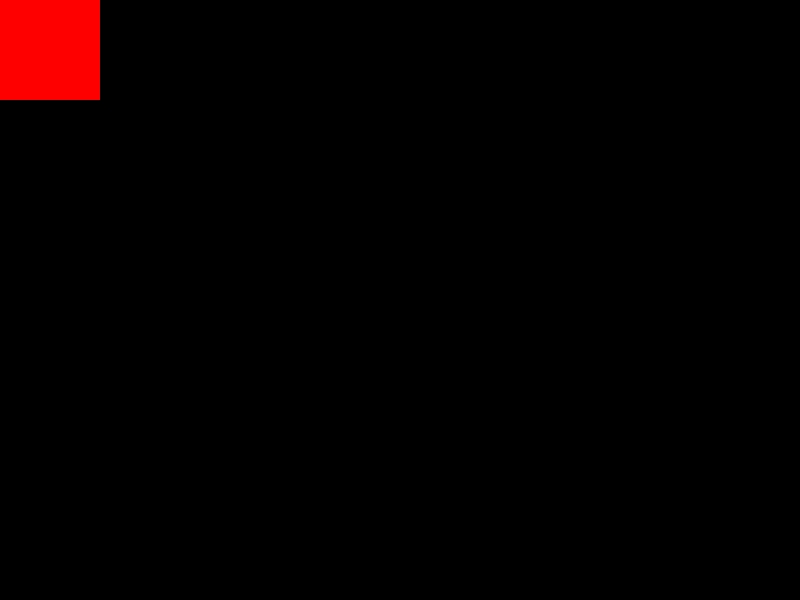
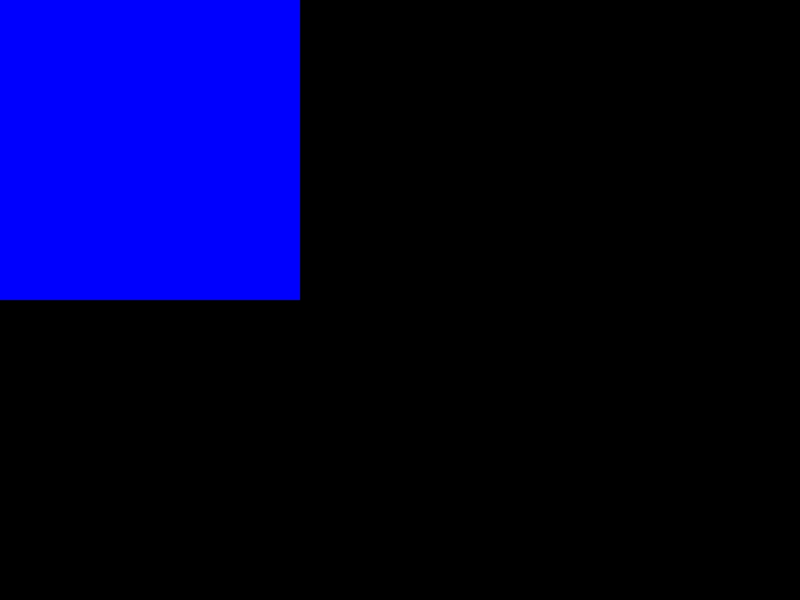
完成 toy-browser

Changed region(s): [[0.0, 0.0, 0.375, 0.51]]

diff --git a/Week10/layout.js b/Week10/layout.js
@@ -28,7 +28,8 @@ function layout(element) {
     items.sort((a, b) => {
         return (a.order || 0) - (b.order || 0)
     })
-    const style = elementStyle
+    const style = elementStyle;
+
     ['width', 'height'].forEach(size => {
         if (style[size] === 'auto' || style[size] === '') {
             style[size] = null
@@ -48,7 +49,7 @@ function layout(element) {
     }
 
     let mainSize, mainStart, mainEnd, mainSign, mainBase,
-        corossSize, corssStart, crossEnd, crossSign, crossBase
+        crossSize, corssStart, crossEnd, crossSign, crossBase
     if (style.flexDireaction === 'row') {
         mainSize = 'width'
         mainStart = 'left'
@@ -56,7 +57,7 @@ function layout(element) {
         mainSign = +1
         mainBase = 0
 
-        corossSize = 'height'
+        crossSize = 'height'
         corssStart = 'top'
         crossEnd = 'bottom'
     }
@@ -67,7 +68,7 @@ function layout(element) {
         mainSign = -1
         mainBase = style.width
 
-        corossSize = 'height'
+        crossSize = 'height'
         corssStart = 'top'
         crossEnd = 'bottom'
     }
@@ -78,7 +79,7 @@ function layout(element) {
         mainSign = +1
         mainBase = 0
 
-        corossSize = 'width'
+        crossSize = 'width'
         corssStart = 'left'
         crossEnd = 'right'
     }
@@ -89,7 +90,7 @@ function layout(element) {
         mainSign = -1
         mainBase = style.height
 
-        corossSize = 'width'
+        crossSize = 'width'
         corssStart = 'left'
         crossEnd = 'right'
     }
@@ -136,8 +137,8 @@ function layout(element) {
             flexLine.push(item)
         } else if (style.flexWrap === 'nowrap' && isAutoMainSize) {
             mainSpace -= itemStyle[mainSize]
-            if (itemStyle[corossSize] !== null && itemStyle[corossSize] !== (void 0)) {
-                crossSpace = mainSpace = Math.max(crossSpace, itemStyle[corossSize])
+            if (itemStyle[crossSize] !== null && itemStyle[crossSize] !== (void 0)) {
+                crossSpace = mainSpace = Math.max(crossSpace, itemStyle[crossSize])
                 flexLine.push(item)
             }
         } else {
@@ -185,11 +186,11 @@ function layout(element) {
         }
     } else {
         flexLines.forEach((items) => {
-            const mainSpace = item.mainSpace
+            const mainSpace = items.mainSpace
             let flexTotal = 0
             for (let i = 0; i < items.length; i++) {
                 const item = items[i]
-                const itemStyle = items[i]
+                const itemStyle = getStyle(item)
                 if ((itemStyle.flex !== null) && (itemStyle.flex !== (void 0))) {
                     flexTotal += itemStyle.flex
                     continue
@@ -233,6 +234,7 @@ function layout(element) {
                 }
                 for (let i = 0; i < items.length; i++) {
                     const item = items[i]
+                    const itemStyle = getStyle(item)
                     itemStyle[mainStart] = currentMain
                     itemStyle[mainEnd] = itemStyle[mainStart] + mainSign * itemStyle[mainSize]
                     currentMain = itemStyle[mainEnd] + step
@@ -322,7 +324,7 @@ function layout(element) {
         }
         crossBase += crossSign * (lineCrossSize + step)
     })
-    console.log(items)
+
 }
 
 module.exports = layout

diff --git a/Week10/client.js b/Week10/client.js
@@ -12,7 +12,13 @@ function render(viewport, element) {
             viewport.draw(img, element.style.left || 0, element.style.top || 0)
         }
     }
+    if (element.children) {
+        for (const child of element.children) {
+            render(viewport, child)
+        }
+    }
 }
+
 class TrunkedBodyPaser {
     constructor() {
         this.WAITING_LENGTH = 0
@@ -89,7 +95,7 @@ class ResponseParser {
         for (let i = 0; i < string.length; i++) {
             this.receivechar(string.charAt(i))
         }
-        //console.log(this.headers)
+
     }
     receivechar(char) {
         if (this.current === this.WAITING_STATUS_LINE) {
@@ -135,7 +141,7 @@ class ResponseParser {
                 this.current = this.WAITING_BODY
             }
         } else if (this.current === this.WAITING_BODY) {
-            //console.log(char)
+
             this.bodyParser.receivechar(char)
         }
     }
@@ -175,9 +181,8 @@ class Request {
                 })
             }
             connection.on('data', (data) => {
-                //console.log(data.toString())
+
                 parser.receive(data.toString())
-                console.log(parser.isFinished, data.toString())
                 if (parser.isFinished) {
                     resolve(parser.response)
                     connection.end()
@@ -198,7 +203,7 @@ ${this.bodyText}`
 }
 
 void async function () {
-    console.log('Request')
+
     let request = new Request({
         method: 'POST', // HTTP 协议要求
         host: '127.0.0.1',// TCP 协议的要求
@@ -213,12 +218,11 @@ void async function () {
     })
     let response = await request.send()
 
-    //console.log('response=>', response)
     let dom = parser.parserHTML(response.body)
 
     let viewport = images(800, 600)
-    console.log('dom', dom.children[1].children[3].children[1])
-    render(viewport, dom.children[1].children[3].children[1])
+
+    render(viewport, dom)
 
     viewport.save('viewport.jpg')
 

diff --git a/Week10/parser.js b/Week10/parser.js
@@ -309,6 +309,7 @@ function computeCSS(element) {
 
     for (let rule of rules) {
         const selectorParts = rule.selectors[0].split(' ').reverse();
+
         if (!match(element, selectorParts[0])) {
             continue
         }
@@ -339,6 +340,7 @@ function computeCSS(element) {
                     computedStyle[declaration.property].specificity = sp
                 }
             }
+
         }
     }
 
@@ -380,6 +382,15 @@ function match(element, selector) {
     if (selector.charAt(0) == '#') {
         var attr = element.attributes.filter(attr => attr.name === 'id')[0]
         if (attr && attr.value === selector.replace('#', '')) {
+            return true
+        } else {
+            if (element.tagName === selector) {
+                return true
+            }
+        }
+    } else if (selector.charAt(0) == '.') {
+        var attr = element.attributes.filter(attr => attr.name === 'class')[0]
+        if (attr && attr.value === selector.replace('.', '')) {
             return true
         } else {
             if (element.tagName === selector) {

diff --git a/Week08/server.js b/Week08/server.js
@@ -16,17 +16,36 @@ http.createServer((request, response) => {
 <html name=a123 >
 <head>
 <style>
-        #app {
-            width:100px;
-            height:100px;
-            background-color:rgb(255,0,0);
-        }
+      .a{
+        width:100px;
+        height:100px;
+        background-color:rgb(255,0,0);
+        display:flex
+      }  
+      .b{
+        width:200px;
+        height:200px;
+        background-color:rgb(0,255,0);
+        display:flex;
+      }
+      .c{
+        width:300px;
+        height:300px;
+        background-color:rgb(0,0,255);
+        display:flex;
+      }
 </style>
 </head>
 <body>
-    <div id="app">
-        hello world
-    </div>
+        <div class="a">
+            
+        </div>
+        <div class="b">
+
+        </div>
+        <div class="c">
+
+        </div>
 </body>
 </html>
         `)

diff --git a/Week10/README.md b/Week10/README.md
@@ -33,12 +33,14 @@ function layout(element) {
     items.sort((a, b) => {
         return (a.order || 0) - (b.order || 0)
     })
-    const style = elementStyle
+    const style = elementStyle;
+
     ['width', 'height'].forEach(size => {
         if (style[size] === 'auto' || style[size] === '') {
             style[size] = null
         }
     })
+
     if (!style.flexDireaction || style.flexDireaction === 'auto') {
         style.flexDireaction = 'row'
     }
@@ -127,12 +129,19 @@ module.exports = layout
 
 ## 排版 | 计算交叉轴
 
-1. 根据每一行中最大元素尺寸计算行高
+1. 根据每一行中最大元素尺寸计算行高
 1. 根据行高 flex-align 和 item-align 确定元素具体位置
 
-## 排版 ｜ 绘制单个元素
+## 渲染 ｜ 绘制单个元素
 
 1. 绘制需依赖来一个图新环境
 1. 课程采用 npm 包 images
 1. 绘制在一个 viewport 上绘制
 1. 与绘制相关的属性: `background-color` 、 `border` 、 `background-image` 等
+
+## 渲染 | 绘制 DOM 树
+
+1. 递归调用子元素的绘制方法完成 DOM 树的绘制
+1. 忽略一些不需要绘制的节点
+1. 实际的浏览器中，文字的绘制是难点，需要依赖字体库，本课程忽略。
+1. 实际的浏览器中，还会进行一些 compositing ，这里我们忽略。
